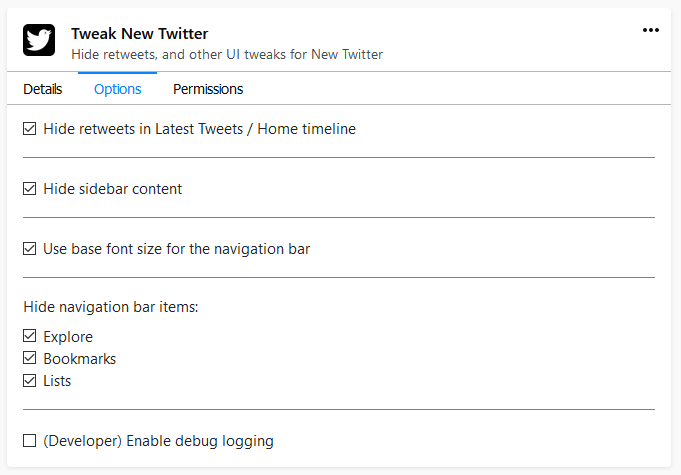
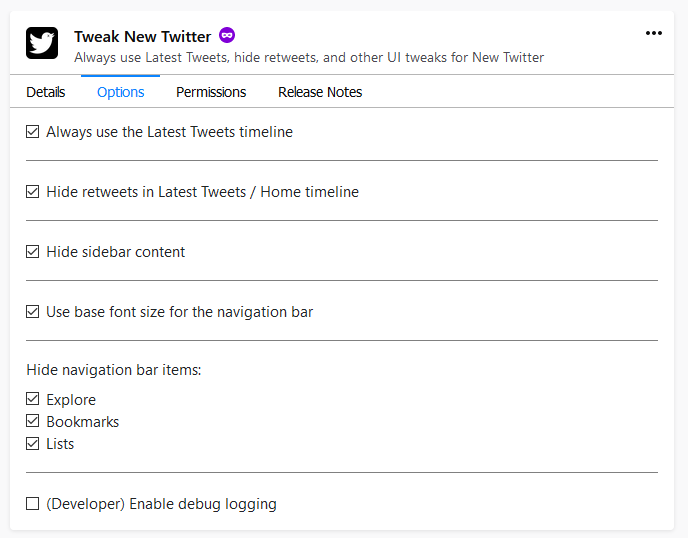
Add "Always use the Latest Tweets timeline"
Closes #6

diff --git a/tweak-new-twitter.user.js b/tweak-new-twitter.user.js
@@ -1,9 +1,9 @@
 // ==UserScript==
 // @name        Tweak New Twitter
-// @description Hide retweets, and other UI tweaks for New Twitter
+// @description Always use Latest Tweets, hide retweets, and other UI tweaks for New Twitter
 // @namespace   https://github.com/insin/tweak-new-twitter/
 // @match       https://twitter.com/*
-// @version     3
+// @version     4
 // ==/UserScript==
 
 const HOME = 'Home'
@@ -36,7 +36,7 @@ let pageObservers = []
   * as a user script.
   */
 let config = {
-  enableDebugLogging: false,
+  alwaysUseLatestTweets: true,
   hideBookmarksNav: true,
   hideExploreNav: true,
   hideListsNav: true,
@@ -44,6 +44,8 @@ let config = {
   hideSidebarContent: true,
   navBaseFontSize: true,
 }
+
+config.enableDebugLogging = false
 
 function addStyle(css) {
   let $style = document.createElement('style')
@@ -116,6 +118,9 @@ function observeTitle() {
 
     log('navigation occurred')
 
+    if (currentPage == HOME && config.alwaysUseLatestTweets) {
+      switchToLatestTweets(currentPage)
+    }
     if (currentPage == HOME || currentPage == LATEST_TWEETS) {
       if (config.hideRetweets) {
         observeTimeline(currentPage)
@@ -137,6 +142,43 @@ function observeTitle() {
     characterData: true,
     childList: true,
   })
+}
+
+function switchToLatestTweets(page, attempts = 1) {
+  let $switchButton = document.querySelector('div[aria-label="Top Tweets on"]')
+
+  if ($switchButton == null) {
+    if (currentPage != page) {
+      return log(`stopped waiting for ${page} switch button`)
+    }
+    if (attempts == 10) {
+      return log(`stopped waiting for switch button after ${attempts} attempts`)
+    }
+    return setTimeout(switchToLatestTweets, 1000 / 60 * 20, page, attempts + 1)
+  }
+
+  setTimeout(() => {
+    log('opening "See latest Tweets instead" menu')
+    $switchButton.click()
+    clickLatestTweetsMenuItem(page)
+  }, 100)
+}
+
+function clickLatestTweetsMenuItem(page, attempts = 1) {
+  let $seeLatestTweetsInstead = document.querySelector('div[role="menuitem"]')
+
+  if ($seeLatestTweetsInstead == null) {
+    if (currentPage != page) {
+      return log(`stopped waiting for ${page} "See latest Tweets instead" menu item`)
+    }
+    if (attempts == 20) {
+      return log(`stopped waiting for "See latest Tweets instead" menu item after ${attempts} attempts`)
+    }
+    return setTimeout(clickLatestTweetsMenuItem, 1000 / 60 * 5, page, attempts + 1)
+  }
+
+  log('switching to Latest Tweets')
+  $seeLatestTweetsInstead.closest('div[tabindex="0"]').click()
 }
 
 function observeTimeline(page) {

diff --git a/options.html b/options.html
@@ -34,6 +34,13 @@
     <form>
       <section>
         <label class="checkbox">
+          <input type="checkbox" name="alwaysUseLatestTweets">
+          <span>Always use the Latest Tweets timeline</span>
+        </label>
+      </section>
+      <hr>
+      <section>
+        <label class="checkbox">
           <input type="checkbox" name="hideRetweets">
           <span>Hide retweets in Latest Tweets / Home timeline</span>
         </label>

diff --git a/options.js b/options.js
@@ -2,6 +2,7 @@ chrome.storage.local.get((storedConfig) => {
   let form = document.querySelector('form')
 
   let config = {
+    alwaysUseLatestTweets: true,
     enableDebugLogging: false,
     hideBookmarksNav: true,
     hideExploreNav: true,

diff --git a/README.md b/README.md
@@ -2,7 +2,7 @@
 
 ![](icons/icon128.png)
 
-**Hide retweets, and other UI tweaks for New Twitter**
+**Always use Latest Tweets, hide retweets, and other UI tweaks for New Twitter**
 
 * [Install Chrome Extension](https://chrome.google.com/webstore/detail/kpmjjdhbcfebfjgdnpjagcndoelnidfj)
 * [Install Firefox Add-on](https://addons.mozilla.org/en-US/firefox/addon/tweak-new-twitter/)
@@ -10,10 +10,11 @@
 
 ## Features
 
-- Hide retweets in your Latest Tweets / Home timeline
-- Hide sidebar content (Trends, Who to follow, sidefooter)
-- Hide some less-used nav links (Explore, Bookmarks, Links)
-- Apply the base font size to the primary nav to make it less distracting
+- Always use the Latest Tweets (chronological) timeline - automatically switches you back when Twitter decides they'd rather you were on the "Home" (algorithmic) timeline because "engagement"
+- Remove retweets from your timeline
+- Remove sidebar content (Trends, Who to follow, sidefooter)
+- Allows some less-used links to be removed from the primary nav (Explore, Bookmarks, Links)
+- Use the site's base font size and normal font weight in the primary nav to make it less distracting (using your selected font size from the Display / Customize your view dialog)
 
 ## Screenshots
 
